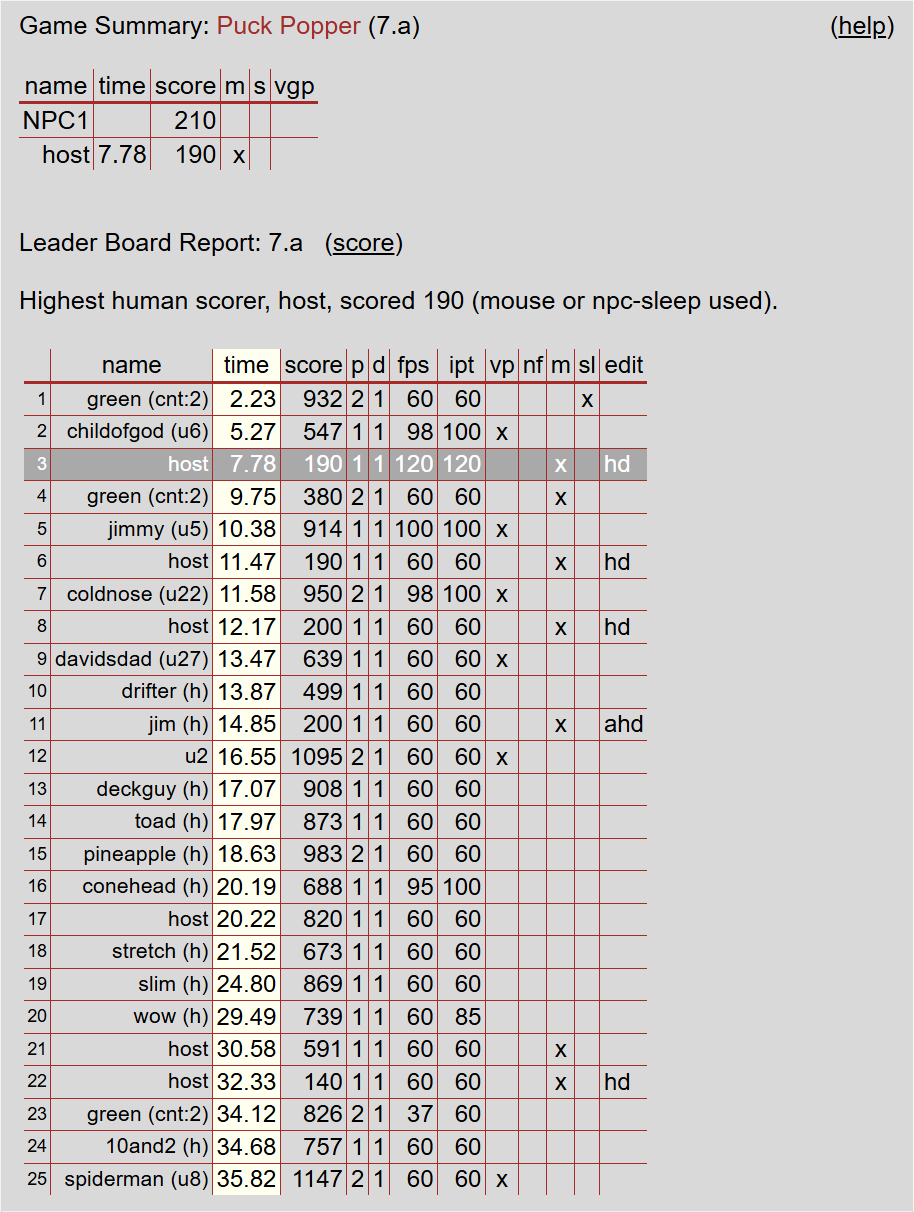
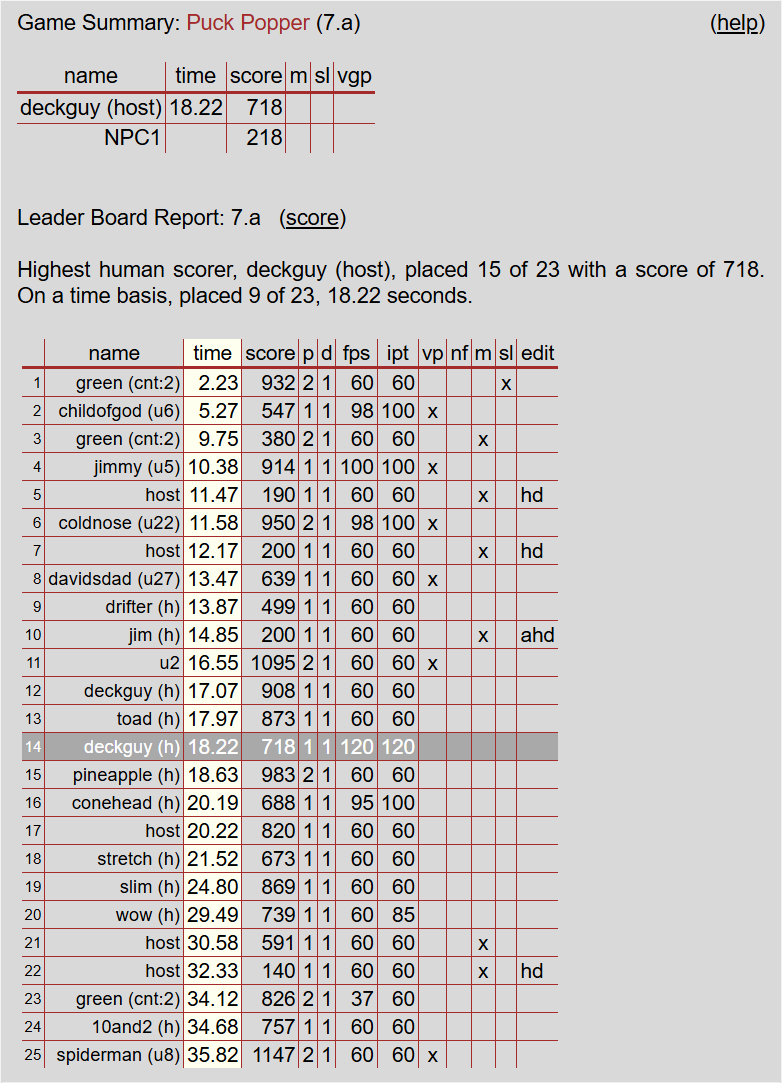
another update

diff --git a/leaderboard-help.html b/leaderboard-help.html
@@ -525,7 +525,7 @@
     <h2 id="leaderboard">The Leaderboard</h2>
     <figure class="shot right">
         <img src="assets/ui/leaderboard-example.png" width="500" alt="Game summary and top-25 leaderboard report for a Puck Popper game">
-        <figcaption>A game summary followed by the top-25 leaderboard report.</figcaption>
+        <figcaption>A game summary followed by the top-25 leaderboard report (time sorted).</figcaption>
     </figure>
     <p>
         After completing a game, a leaderboard report of the <strong>top 25 results</strong>
@@ -564,9 +564,9 @@
         <code>lb</code> to see example queries, then submit one such as:
     </p>
     <ul>
-        <li><code>lb::current</code> &mdash; the current game version</li>
-        <li><code>lb::7.a</code> &mdash; a specific game version</li>
-        <li><code>lb::4.e.monkeyhunt</code> &mdash; a named game</li>
+        <li><code>lb::current</code> &mdash; the current game</li>
+        <li><code>lb::7.a</code> &mdash; a specific game</li>
+        <li><code>lb::4.e.monkeyhunt</code> &mdash; a specific game</li>
     </ul>
 
     <div class="note">
@@ -577,7 +577,6 @@
         just-finished game is flagged, that line reads <em>"(mouse or npc-sleep used)"</em> instead of giving your
         placement, and flagged games aren't counted when tallying placements.
         The mouse flag applies only to Puck Popper &mdash; the other games are played with the mouse (or touch).
-        Each Puck Popper version reports separately (example: demo 7.a results are kept apart from 8.a and 7.b).
     </div>
 
     <h2 id="tournament">Custom Captures for a Tournament</h2>
